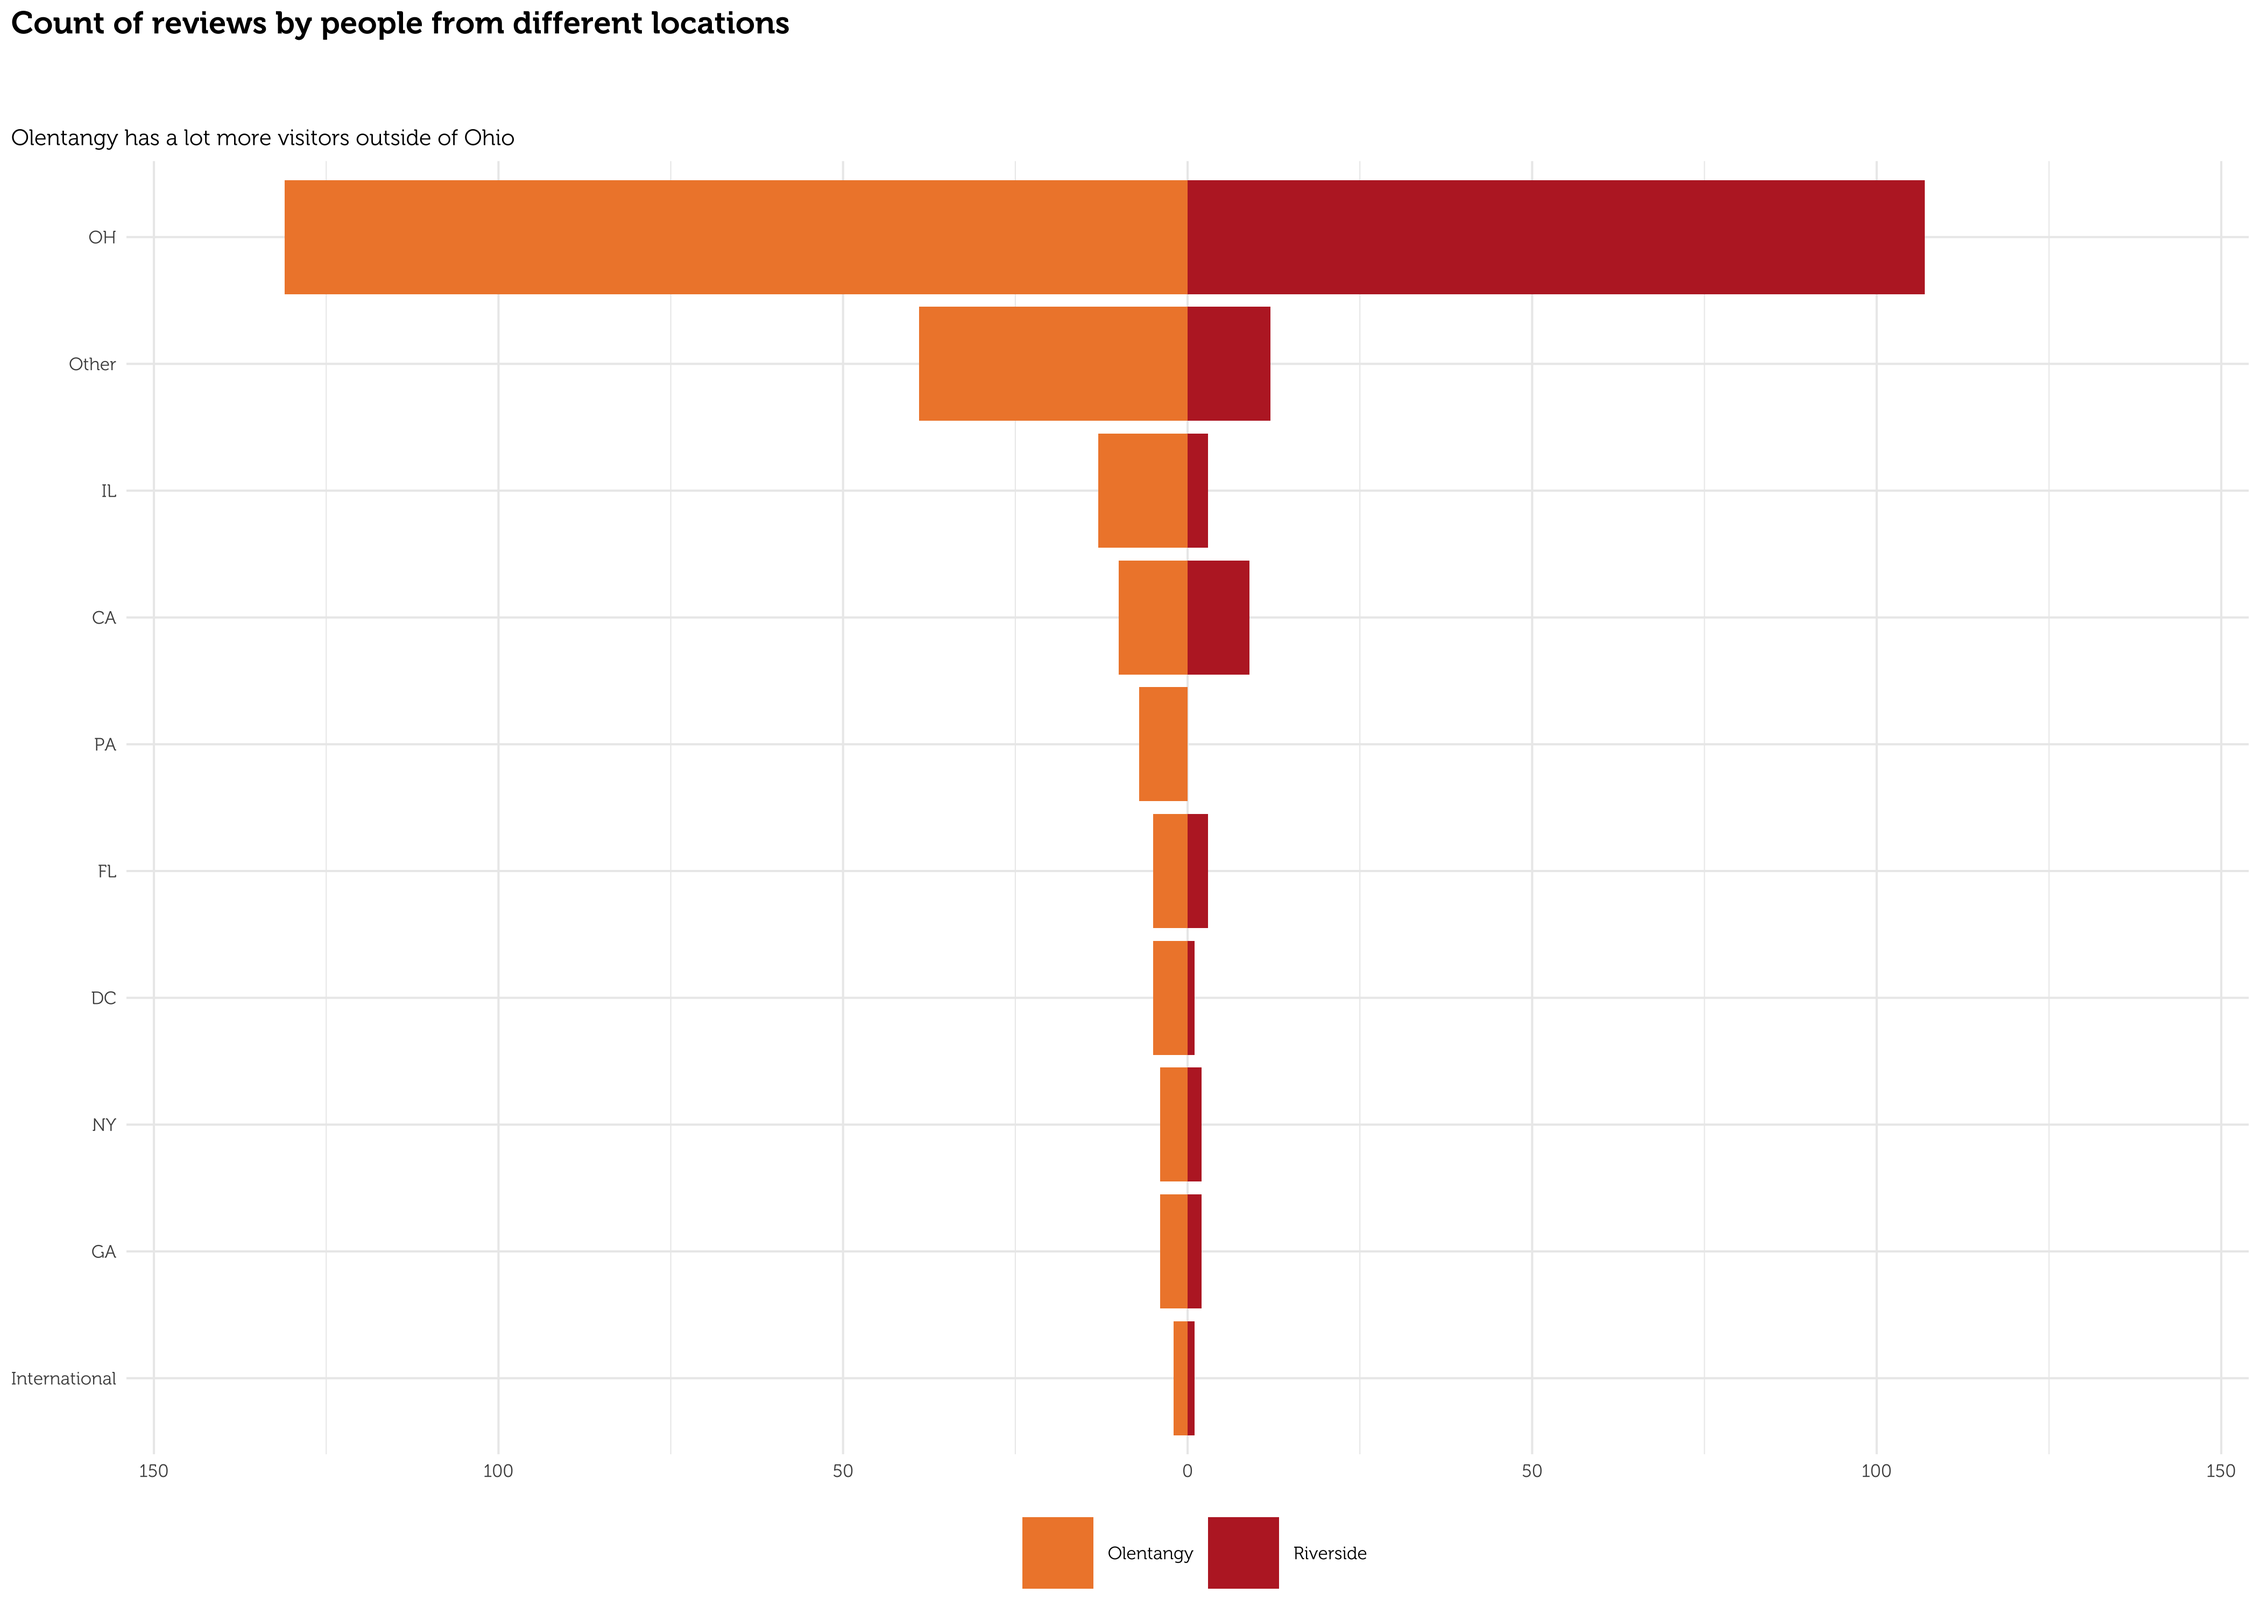
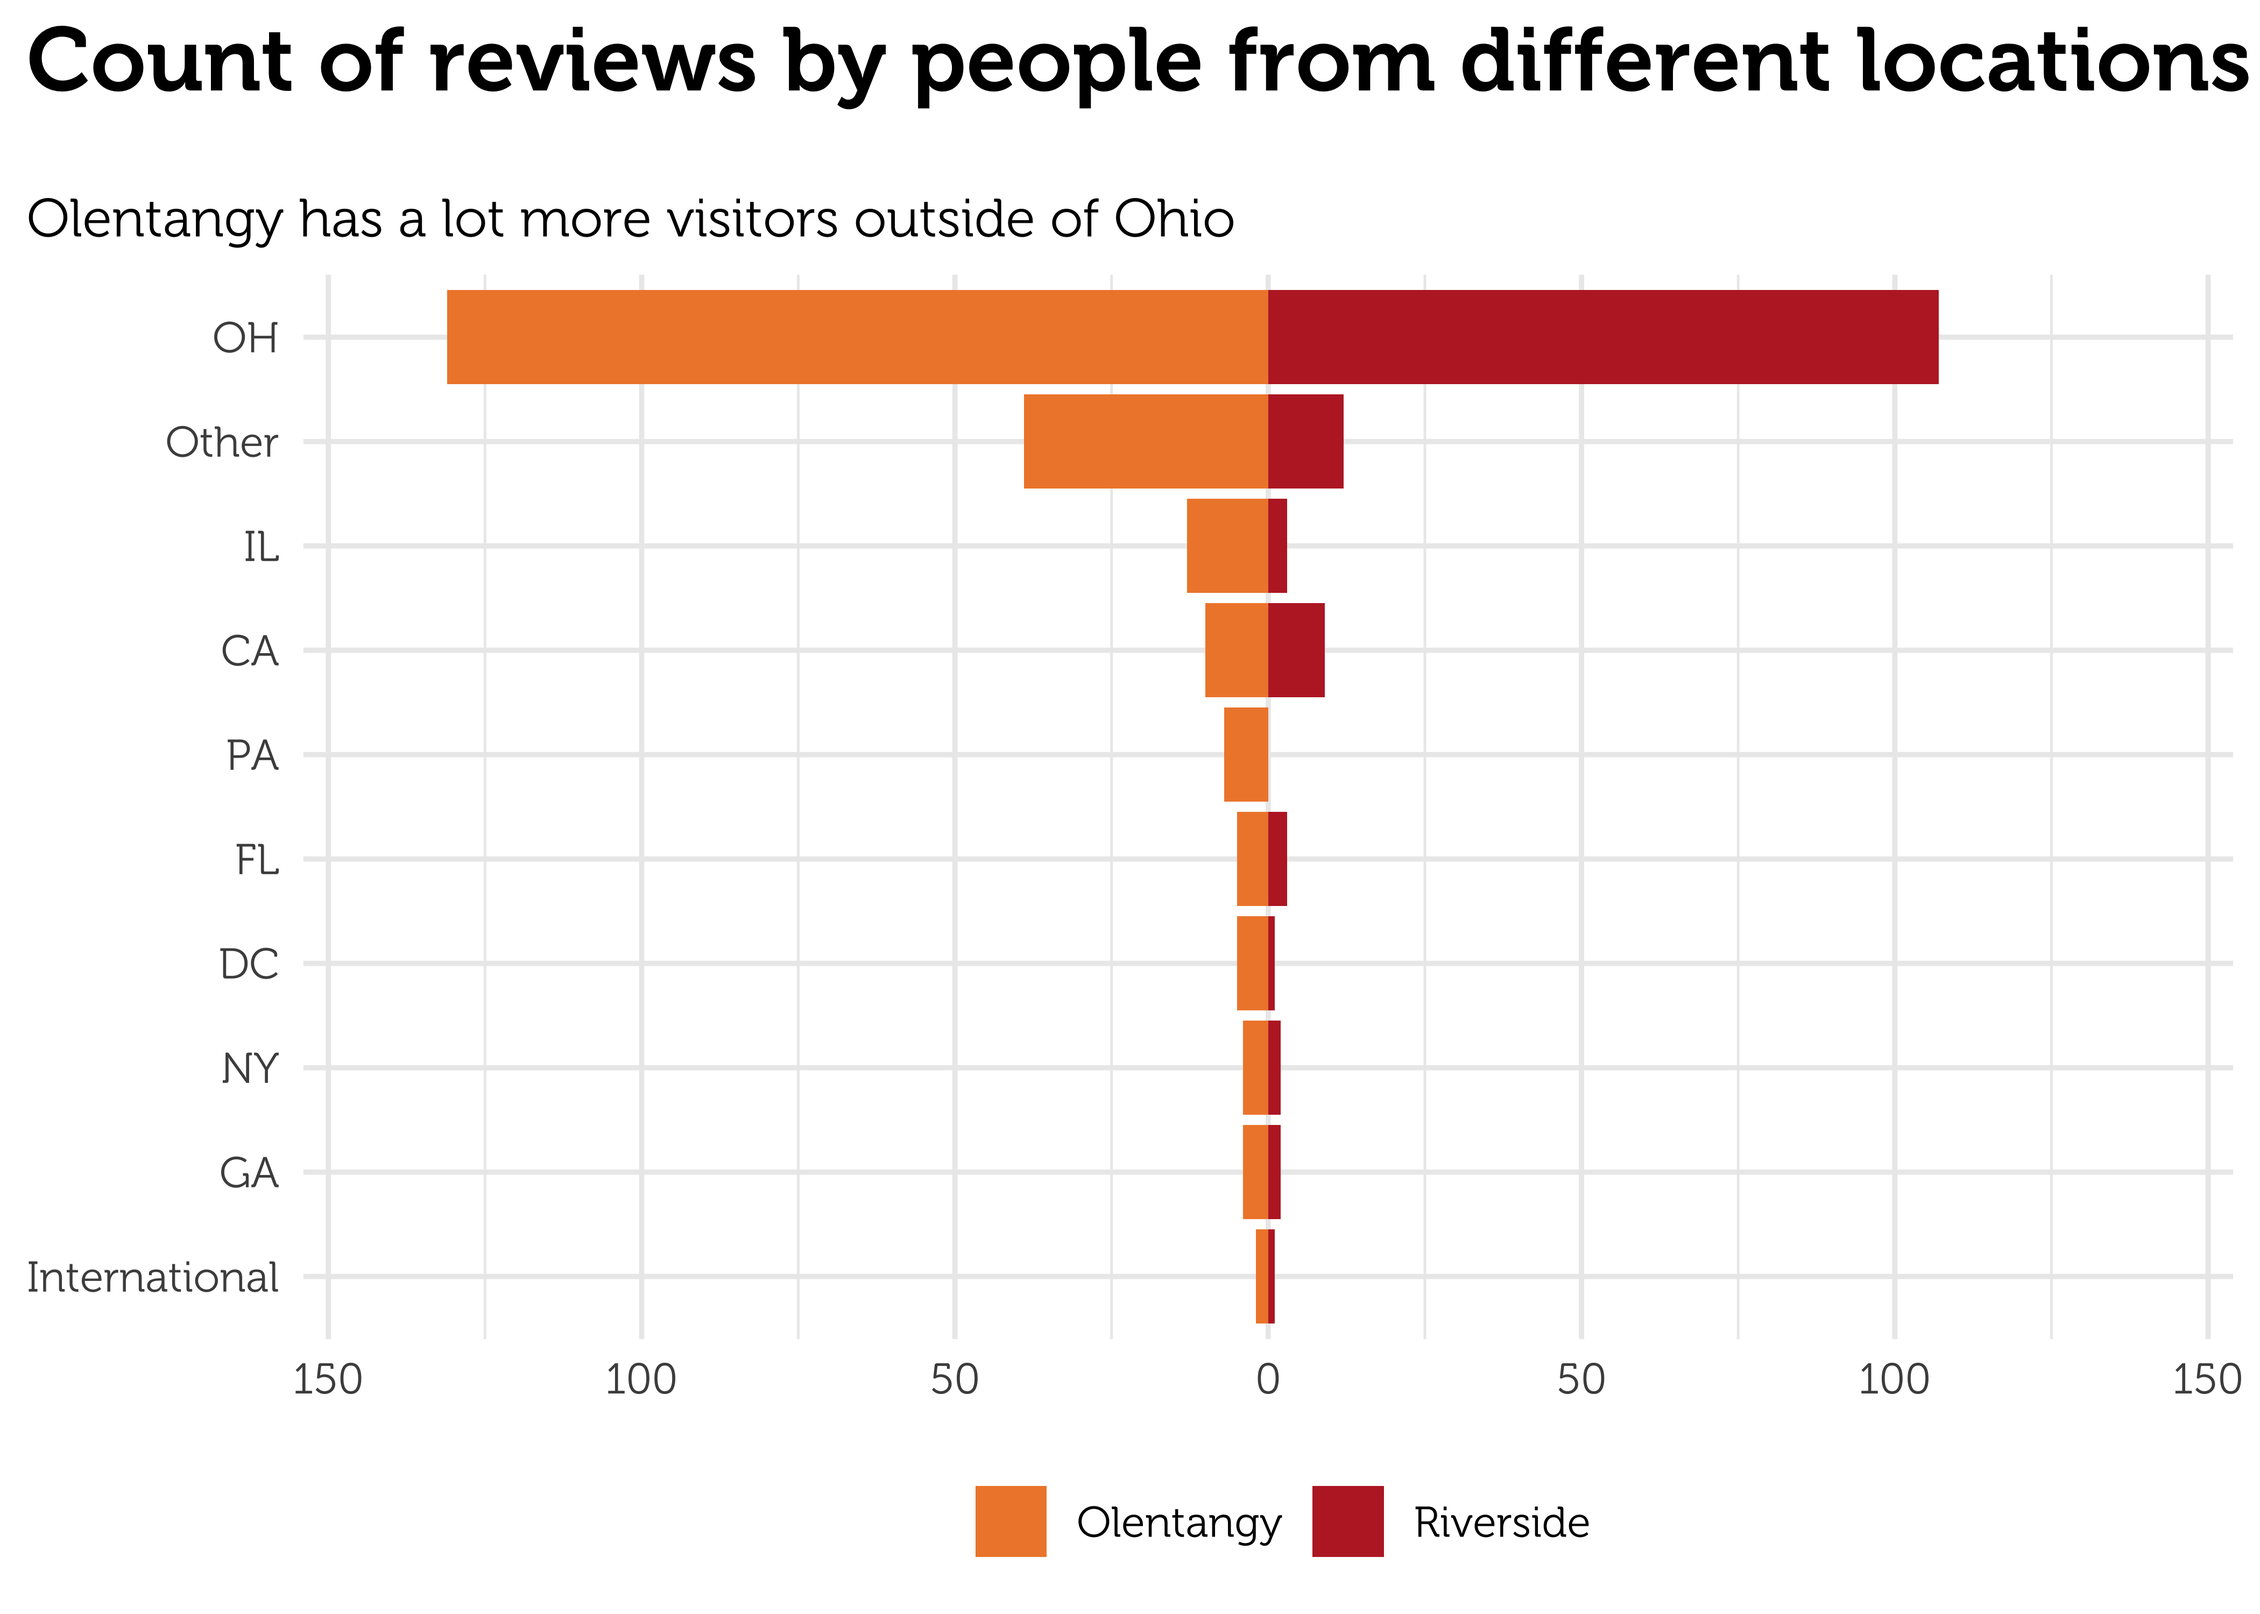
fix text size of custom fonts

diff --git a/README.md b/README.md
@@ -46,10 +46,10 @@ sysfonts::font_add(family = "Museo",
                    bold = "Museo700-Regular.otf")
 theme_set(theme_minimal(
   base_family = "Museo",
-  base_size = 5
+  base_size = 12
 ) + 
   theme(plot.title.position = "plot",
-        plot.title = element_text(face = "bold", size = 7, 
+        plot.title = element_text(face = "bold", size = 20, 
                              margin = margin(b = 20))))
 ```
 
@@ -274,7 +274,7 @@ el_vaq %>%
   geom_line(aes(color = better_location), size = 1.5, alpha = .5) +
   geom_point(aes(color = location), size = 4) +
   geom_text(aes(label = word, x = max_rating, y = word),
-            hjust = 0, nudge_x = .25, check_overlap = TRUE, size = 1.5,
+            hjust = 0, nudge_x = .25, check_overlap = TRUE, size = 4,
             family = "Museo") +
   scale_x_continuous(limits = c(0, 5)) +
   theme(legend.position = c(.5 / 5, 20.5 / 22),
@@ -283,9 +283,7 @@ el_vaq %>%
         panel.grid.major.x = element_blank(),
         panel.grid.minor.x = element_blank(),
         panel.grid = element_blank(),
-        axis.text.y = element_blank(),
-        plot.title = element_text(face = "bold", size = 7, 
-                             margin = margin(b = 20))) +
+        axis.text.y = element_blank()) +
   labs(y = NULL,
        x = "Avgerage Rating (1-5 stars)",
        color = NULL,
@@ -293,7 +291,7 @@ el_vaq %>%
   scale_color_manual(values = met.brewer("Tam", 2)) +
   coord_cartesian(ylim = c(1, 22)) +
   annotate(geom = "text", x = 4.75, y = 22, label = "Reviews mentioning...",
-           hjust = 1, fontface = "bold", family = "Museo", size = 1.5)
+           hjust = 1, fontface = "bold", family = "Museo", size = 4.5)
 ```
 
     `summarise()` has grouped output by 'word'. You can override using the
@@ -380,7 +378,7 @@ el_vaq %>%
   geom_line(aes(color = better_location), size = 1.5, alpha = .5) +
   geom_point(aes(color = location), size = 4) +
   geom_text(aes(label = word, x = max_rating, y = word),
-            hjust = 0, nudge_x = .25, check_overlap = TRUE, size = 1.5,
+            hjust = 0, nudge_x = .25, check_overlap = TRUE, size = 4,
             family = "Museo") +
   scale_x_continuous(limits = c(0, 5)) +
   theme(legend.position = c(.5 / 5, 20.5 / 22),
@@ -389,9 +387,7 @@ el_vaq %>%
         panel.grid.major.x = element_blank(),
         panel.grid.minor.x = element_blank(),
         panel.grid = element_blank(),
-        axis.text.y = element_blank(),
-        plot.title = element_text(face = "bold", size = 7, 
-                             margin = margin(b = 20))) +
+        axis.text.y = element_blank()) +
   labs(y = NULL,
        x = "Avgerage Rating (1-5 stars)",
        color = NULL,
@@ -399,7 +395,7 @@ el_vaq %>%
   scale_color_manual(values = met.brewer("Tam", 2)) +
   coord_cartesian(ylim = c(1, 22)) +
   annotate(geom = "text", x = 4.75, y = 22, label = "Reviews mentioning...",
-           hjust = 1, fontface = "bold", family = "Museo", size = 1.5)
+           hjust = 1, fontface = "bold", family = "Museo", size = 4.5)
 ```
 
     `summarise()` has grouped output by 'word'. You can override using the
